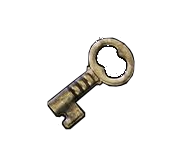
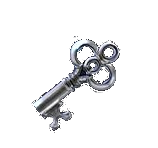
add RenderedDecorKey in factory, and load key img, decorKey up

Changed region(s): [[0.2025, 0.2449, 0.7595, 0.898]]

diff --git a/src/main/java/com/antoine/view/RenderedDecorKey.java b/src/main/java/com/antoine/view/RenderedDecorKey.java
@@ -6,29 +6,49 @@ import com.antoine.helpers.ImageReader;
 
 import java.awt.*;
 import java.awt.image.BufferedImage;
+import java.util.ArrayList;
 
 public class RenderedDecorKey extends RenderedDecor {
 
-    private BufferedImage key;
-    private int key_id;
-    RenderedDecorKey(int id, int key_id)
+    private ArrayList< BufferedImage > key;
+    private int key_sprite_index = 0;
+    private int key_anim_slower  = 0;
+    private boolean anim_loop_forward = true;
+    private final int KEY_ANIM_SLOWER_MAX = 15;
+
+    RenderedDecorKey(int id)
     {
         super( id );
-        this.key_id = key_id;
+        key = new ArrayList<>( 4 );
     }
 
     public void loadKeyImg( String filename )
     {
-        this.key = ImageReader.readImage( filename );
+        this.key.add( ImageReader.readImage( filename ));
     }
 
     @Override
     protected void drawEntities(Graphics g, RenderedEntity[] entities, boolean inTransition )
     {
         super.drawEntities( g, entities, inTransition );
-        RenderedMotionEntity player = (RenderedMotionEntity) entities[0];
-        if ( ! player.hasKey( key_id )) {
-            // render key
+        if ( entities[ 1 ] != null ) { // if key not grabbed
+            ++key_anim_slower;
+            if ( key_anim_slower % KEY_ANIM_SLOWER_MAX == 0 ) {
+                key_anim_slower = 0;
+                if ( anim_loop_forward ) {
+                    ++key_sprite_index;
+                    if ( key_sprite_index == key.size() - 1){
+                        anim_loop_forward = false;
+                    }
+                } else {
+                    --key_sprite_index;
+                    if ( key_sprite_index == 0 ) {
+                        anim_loop_forward = true;
+                    }
+                }
+                System.out.println(key_sprite_index);
+            }
+           g.drawImage( key.get(key_sprite_index), entities[1].getX(), entities[1].getY(), entities[1].getWidth(), entities[1].getHeight(), null );
         }
     }
 }

diff --git a/src/main/java/com/antoine/game/DecorFactory.java b/src/main/java/com/antoine/game/DecorFactory.java
@@ -52,10 +52,8 @@ public class DecorFactory {
         }
     }
 
-    static Decor_1D createDecor1D(JSONObject decor_json, int id)
-    {
-        Decor_1D decor = new Decor_1D( id );
-        build( decor, decor_json );
+
+    static void build1D( Decor_1D decor, JSONObject decor_json) {
         JSONArray lineMask = decor_json.getJSONArray( "line_mask" );
         for ( int i = 0; i < lineMask.length(); ++i )
         {
@@ -64,6 +62,13 @@ public class DecorFactory {
         }
 
         decor.setIs_vertical( decor_json.getBoolean( "is_vertical" ));
+    }
+
+    static Decor_1D createDecor1D(JSONObject decor_json, int id)
+    {
+        Decor_1D decor = new Decor_1D( id );
+        build( decor, decor_json );
+        build1D( decor, decor_json );
         return decor;
     }
 
@@ -90,7 +95,12 @@ public class DecorFactory {
     static Decor_with_key createDecorWithKey(JSONObject decor_json, int id)
     {
         Decor_with_key decor = new Decor_with_key( id );
-        build( decor,  decor_json );
+        build( decor, decor_json );
+        build1D( decor, decor_json );
+
+        JSONObject key = decor_json.getJSONObject( "key" );
+        decor.setKeyCoordinates( (int) (key.getInt( "x") * dim_coef), (int) (key.getInt( "y" ) * dim_coef));
+        decor.setKeyDimension( (int) (key.getInt( "width" ) * dim_coef), (int) (key.getInt( "height" ) * dim_coef ));
         return decor;
     }
 

diff --git a/src/main/java/com/antoine/view/RenderedDecorFactory.java b/src/main/java/com/antoine/view/RenderedDecorFactory.java
@@ -1,6 +1,7 @@
 package com.antoine.view;
 
 import com.antoine.helpers.JsonHelper;
+import org.json.JSONArray;
 import org.json.JSONObject;
 
 import java.io.BufferedReader;
@@ -26,7 +27,23 @@ public class RenderedDecorFactory {
     {
         JSONObject decor_json = json.getJSONObject( Integer.toString( id ));
         String path = IMG_PATH + decor_json.getString( "path" );
-        RenderedDecor decor = new RenderedDecor( id );
+        RenderedDecor decor = null;
+        if ( ! decor_json.has( "key" )) {
+            decor = new RenderedDecor( id );
+        } else {
+            RenderedDecorKey decorKey = new RenderedDecorKey( id );
+            JSONObject key = decor_json.getJSONObject( "key" );
+            String keyPath = key.getString( "path");
+            JSONArray keyAnim = key.getJSONArray( "animation" );
+            StringBuilder builder = new StringBuilder();
+            builder.append( keyPath );
+            for ( Object obj : keyAnim ) {
+                builder.append( obj );
+                decorKey.loadKeyImg( builder.toString() );
+                builder.delete( keyPath.length(), builder.length() );
+            }
+            decor = decorKey;
+        }
         decor.loadImgs( path + decor_json.getString( "bg" ), path + decor_json.getString( "fg" ));
         return decor;
     }

diff --git a/src/main/java/com/antoine/model/Decor_with_key.java b/src/main/java/com/antoine/model/Decor_with_key.java
@@ -13,6 +13,14 @@ public class Decor_with_key extends Decor_1D
         super( _id );
     }
 
+    public void setKeyCoordinates( int x, int y ) {
+        this.key = new Entity( x, y );
+    }
+
+    public void setKeyDimension( int width, int height ) {
+        this.key.setSize( width, height );
+    }
+
     @Override
     public RenderedEntity[] getEntities()
     {
@@ -25,6 +33,6 @@ public class Decor_with_key extends Decor_1D
     @Override
     public void update()
     {
-
+        super.update();
     }
 }

diff --git a/src/main/java/com/antoine/view/RenderedDecor.java b/src/main/java/com/antoine/view/RenderedDecor.java
@@ -23,8 +23,8 @@ public class RenderedDecor {
     protected static HashMap<Direction, ArrayList<BufferedImage>> player_imgs;
     private int player_sprite_index;
     private int anim_slower;
-    private double dim_coef;
-    private final int ANIM_SLOWER_MAX = 6;
+    protected double dim_coef;
+    protected final int ANIM_SLOWER_MAX = 6;
 
 
 
